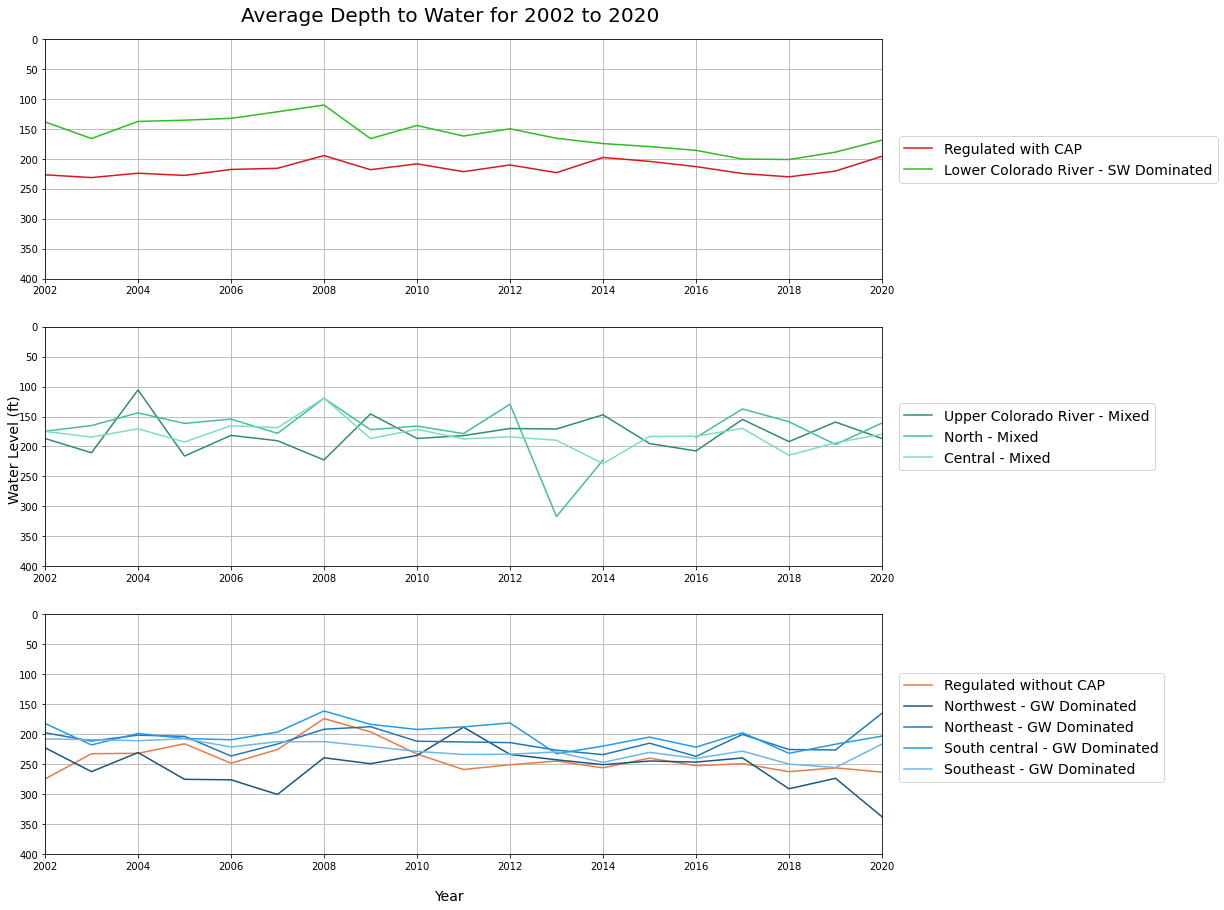
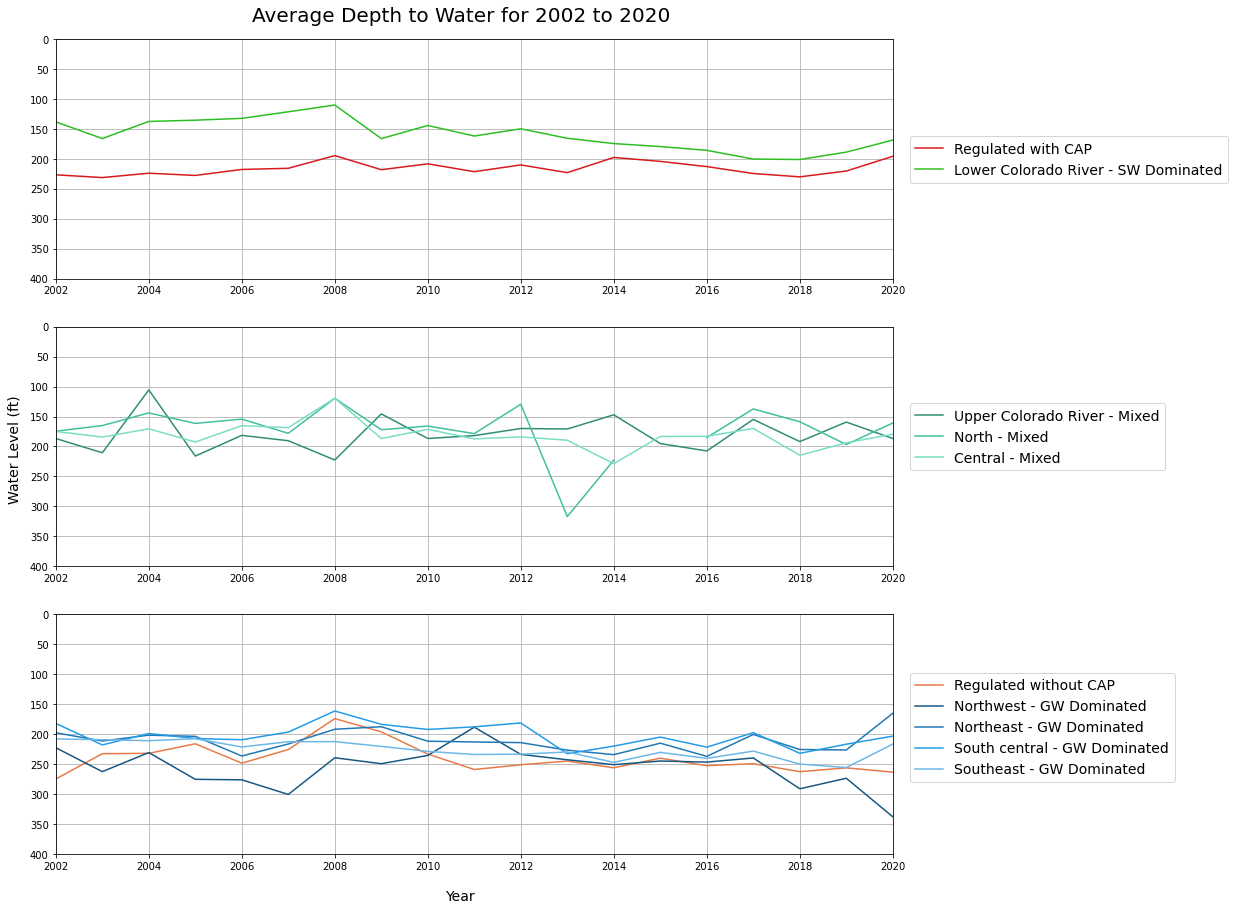
Actually working bar charts

diff --git a/SummaryCodes/Spatial_Analysis_Wells_FinalGeoreg.py b/SummaryCodes/Spatial_Analysis_Wells_FinalGeoreg.py
@@ -405,24 +405,25 @@ ax[1,1].axvspan(h, a, color=wet_color, alpha=0.5, lw=0)
 # plt.savefig(outputpath+name+'_4panel_drought')
 
 
-# %% Plot in a three panel graph
+# %% Plot in a four panel 1 column graph
 ds = cat_wl2
 minyear=2002
 maxyear=2020
 name = "Average Depth to Water for " + str(minyear) + " to " + str(maxyear)
 min_y = 0
-max_y = 400
+max_y = 350
 fsize = 14
 ylabel = "Water Level (ft)"
+linewidth = 2
 
 # del ds.at[2015, 10]
 ds.at[2015, 10] = None
 
 # For the actual figure
-fig, ax = plt.subplots(3,1,figsize=(15,15))
+fig, ax = plt.subplots(4,1,figsize=(12,15))
 #fig.tight_layout()
 fig.suptitle(name, fontsize=20, y=0.91)
-fig.supylabel(ylabel, fontsize = 14, x=0.09)
+fig.supylabel(ylabel, fontsize = 14, x=0.05)
 fig.supxlabel("Year", fontsize = 14, y=0.08)
 # Panel numbers for easy adjusting
 p1 = 0 # Panel 1
@@ -430,16 +431,113 @@ p2 = 1 # Panel 2
 p3 = 2 # Panel 3
 p4 = 3 # Panel 4
 #ax[1,1].plot(ds['Reservation'], label='Reservation', color='#8d5a99')
-ax[p1].plot(ds[2], label='Regulated with CAP', color=c_2) 
-ax[p3].plot(ds[3], label='Regulated without CAP', color=c_3) 
-ax[p1].plot(ds[4], color=c_4, label='Lower Colorado River - SW Dominated')
-ax[p2].plot(ds[5], color=c_5, label='Upper Colorado River - Mixed')
-ax[p2].plot(ds[10], color=c_10, label='North - Mixed')
-ax[p2].plot(ds[11], color=c_11, label='Central - Mixed')
-ax[p3].plot(ds[7], color=c_7, label='Northwest - GW Dominated')
-ax[p3].plot(ds[9], color=c_9, label='Northeast - GW Dominated')
-ax[p3].plot(ds[8], color=c_8, label='South central - GW Dominated')
-ax[p3].plot(ds[6], color=c_6, label='Southeast - GW Dominated')
+ax[p1].plot(ds[2], label='Regulated with CAP', color=c_2, lw=linewidth) 
+ax[p3].plot(ds[3], label='Regulated without CAP', color=c_3, lw=linewidth) 
+ax[p1].plot(ds[4], color=c_4, label='Lower Colorado River - SW Dominated', lw=linewidth)
+ax[p2].plot(ds[5], color=c_5, label='Upper Colorado River - Mixed', lw=linewidth)
+#ax[p2].plot(ds[10], color=c_10, label='North - Mixed', lw=linewidth)
+ax[p2].plot(ds[11], color=c_11, label='Central - Mixed', lw=3)
+ax[p4].plot(ds[7], color=c_7, label='Northwest - GW Dominated', lw=linewidth)
+ax[p3].plot(ds[9], color=c_9, label='Northeast - GW Dominated', lw=linewidth)
+ax[p4].plot(ds[8], color=c_8, label='South central - GW Dominated', lw=linewidth)
+ax[p3].plot(ds[6], color=c_6, label='Southeast - GW Dominated', lw=3)
+
+ax[p1].set_xlim(minyear,maxyear)
+ax[p2].set_xlim(minyear,maxyear)
+ax[p3].set_xlim(minyear,maxyear)
+ax[p4].set_xlim(minyear,maxyear)
+ax[p1].set_ylim(max_y,min_y)
+ax[p2].set_ylim(max_y,min_y)
+ax[p3].set_ylim(max_y,min_y)
+ax[p4].set_ylim(max_y,min_y)
+ax[p1].grid(True)
+ax[p2].grid(True)
+ax[p3].grid(True)
+ax[p4].grid(True)
+#ax[0,0].set(title=name, xlabel='Year', ylabel='Change from Baseline (cm)')
+#ax[0,0].set_title(name, loc='right')
+#ax[1,0].set_ylabel("Change from 2004-2009 Baseline (cm)", loc='top', fontsize = fsize)
+
+# Drought Year Shading
+a = 2011
+b = 2015.999
+c = 2018.001
+d = 2018.999
+e = 2006
+f = 2007.999
+
+ax[p1].axvspan(a, b, color=drought_color, alpha=0.5, lw=0, label="Drought")
+ax[p1].axvspan(c, d, color=drought_color, alpha=0.5, lw=0)
+ax[p1].axvspan(e, f, color=drought_color, alpha=0.5, lw=0)
+ax[p2].axvspan(a, b, color=drought_color, alpha=0.5, lw=0, label="Drought")
+ax[p2].axvspan(c, d, color=drought_color, alpha=0.5, lw=0)
+ax[p2].axvspan(e, f, color=drought_color, alpha=0.5, lw=0)
+ax[p3].axvspan(a, b, color=drought_color, alpha=0.5, lw=0, label="Drought")
+ax[p3].axvspan(c, d, color=drought_color, alpha=0.5, lw=0)
+ax[p3].axvspan(e, f, color=drought_color, alpha=0.5, lw=0)
+ax[p4].axvspan(a, b, color=drought_color, alpha=0.5, lw=0, label="Drought")
+ax[p4].axvspan(c, d, color=drought_color, alpha=0.5, lw=0)
+ax[p4].axvspan(e, f, color=drought_color, alpha=0.5, lw=0)
+
+# Wet years (2005 and 2010)
+g = 2005
+h = 2010
+ax[p1].axvspan(g, e, color=wet_color, alpha=0.5, lw=0, label="Wet Years")
+ax[p1].axvspan(h, a, color=wet_color, alpha=0.5, lw=0)
+ax[p2].axvspan(g, e, color=wet_color, alpha=0.5, lw=0, label="Wet Years")
+ax[p2].axvspan(h, a, color=wet_color, alpha=0.5, lw=0)
+ax[p3].axvspan(g, e, color=wet_color, alpha=0.5, lw=0, label="Wet Years")
+ax[p3].axvspan(h, a, color=wet_color, alpha=0.5, lw=0)
+ax[p4].axvspan(g, e, color=wet_color, alpha=0.5, lw=0, label="Wet Years")
+ax[p4].axvspan(h, a, color=wet_color, alpha=0.5, lw=0)
+
+ax[p1].legend(loc = [1.02, 0.40], fontsize = fsize)
+ax[p2].legend(loc = [1.02, 0.40], fontsize = fsize)
+ax[p3].legend(loc = [1.02, 0.30], fontsize = fsize)
+ax[p4].legend(loc = [1.02, 0.20], fontsize = fsize)
+
+# plt.savefig(outputpath+name+'_3panel', bbox_inches = 'tight') # bbox_inches makes sure the legend saves
+# plt.savefig(outputpath+name+'_4panel', bbox_inches = 'tight') # bbox_inches makes sure the legend saves
+plt.savefig(outputpath+name+'_4panel_drought', bbox_inches = 'tight') # bbox_inches makes sure the legend saves
+
+# plt.savefig(outputpath+name+'_3panel_drought')
+
+# %% Plot in a three panel graph, 1 column
+ds = cat_wl2
+minyear=1971
+maxyear=2020
+name = "Average Depth to Water for " + str(minyear) + " to " + str(maxyear)
+min_y = 0
+max_y = 350
+fsize = 14
+ylabel = "Water Level (ft)"
+linewidth = 2
+
+# del ds.at[2015, 10]
+ds.at[2015, 10] = None
+
+# For the actual figure
+fig, ax = plt.subplots(3,1,figsize=(12,15))
+#fig.tight_layout()
+fig.suptitle(name, fontsize=20, y=0.91)
+fig.supylabel(ylabel, fontsize = 14, x=0.05)
+fig.supxlabel("Year", fontsize = 14, y=0.08)
+# Panel numbers for easy adjusting
+p1 = 0 # Panel 1
+p2 = 1 # Panel 2
+p3 = 2 # Panel 3
+p4 = 3 # Panel 4
+#ax[1,1].plot(ds['Reservation'], label='Reservation', color='#8d5a99')
+ax[p1].plot(ds[2], label='Regulated with CAP', color=c_2, lw=linewidth) 
+ax[p3].plot(ds[3], label='Regulated without CAP', color=c_3, lw=linewidth) 
+ax[p1].plot(ds[4], color=c_4, label='Lower Colorado River - SW Dominated', lw=linewidth)
+ax[p2].plot(ds[5], color=c_5, label='Upper Colorado River - Mixed', lw=linewidth)
+#ax[p2].plot(ds[10], color=c_10, label='North - Mixed', lw=linewidth)
+ax[p2].plot(ds[11], color=c_11, label='Central - Mixed', lw=linewidth)
+ax[p3].plot(ds[7], color=c_7, label='Northwest - GW Dominated', lw=linewidth)
+ax[p3].plot(ds[9], color=c_9, label='Northeast - GW Dominated', lw=linewidth)
+ax[p3].plot(ds[8], color=c_8, label='South central - GW Dominated', lw=linewidth)
+ax[p3].plot(ds[6], color=c_6, label='Southeast - GW Dominated', lw=linewidth)
 
 ax[p1].set_xlim(minyear,maxyear)
 ax[p2].set_xlim(minyear,maxyear)
@@ -465,37 +563,39 @@ ax[p3].grid(True)
 # e = 2006
 # f = 2007.999
 
-# ax[0,0].axvspan(a, b, color=drought_color, alpha=0.5, lw=0, label="Drought")
-# ax[0,0].axvspan(c, d, color=drought_color, alpha=0.5, lw=0)
-# ax[0,0].axvspan(e, f, color=drought_color, alpha=0.5, lw=0)
-# ax[1,0].axvspan(a, b, color=drought_color, alpha=0.5, lw=0, label="Drought")
-# ax[1,0].axvspan(c, d, color=drought_color, alpha=0.5, lw=0)
-# ax[1,0].axvspan(e, f, color=drought_color, alpha=0.5, lw=0)
-# ax[0,1].axvspan(a, b, color=drought_color, alpha=0.5, lw=0, label="Drought")
-# ax[0,1].axvspan(c, d, color=drought_color, alpha=0.5, lw=0)
-# ax[0,1].axvspan(e, f, color=drought_color, alpha=0.5, lw=0)
-# ax[1,1].axvspan(a, b, color=drought_color, alpha=0.5, lw=0, label="Drought")
-# ax[1,1].axvspan(c, d, color=drought_color, alpha=0.5, lw=0)
-# ax[1,1].axvspan(e, f, color=drought_color, alpha=0.5, lw=0)
+# ax[p1].axvspan(a, b, color=drought_color, alpha=0.5, lw=0, label="Drought")
+# ax[p1].axvspan(c, d, color=drought_color, alpha=0.5, lw=0)
+# ax[p1].axvspan(e, f, color=drought_color, alpha=0.5, lw=0)
+# ax[p2].axvspan(a, b, color=drought_color, alpha=0.5, lw=0, label="Drought")
+# ax[p2].axvspan(c, d, color=drought_color, alpha=0.5, lw=0)
+# ax[p2].axvspan(e, f, color=drought_color, alpha=0.5, lw=0)
+# ax[p3].axvspan(a, b, color=drought_color, alpha=0.5, lw=0, label="Drought")
+# ax[p3].axvspan(c, d, color=drought_color, alpha=0.5, lw=0)
+# ax[p3].axvspan(e, f, color=drought_color, alpha=0.5, lw=0)
+# # ax[p4].axvspan(a, b, color=drought_color, alpha=0.5, lw=0, label="Drought")
+# # ax[p4].axvspan(c, d, color=drought_color, alpha=0.5, lw=0)
+# # ax[p4].axvspan(e, f, color=drought_color, alpha=0.5, lw=0)
 
 # # Wet years (2005 and 2010)
 # g = 2005
 # h = 2010
-# ax[0,0].axvspan(g, e, color=wet_color, alpha=0.5, lw=0, label="Wet Years")
-# ax[0,0].axvspan(h, a, color=wet_color, alpha=0.5, lw=0)
-# ax[0,1].axvspan(g, e, color=wet_color, alpha=0.5, lw=0, label="Wet Years")
-# ax[0,1].axvspan(h, a, color=wet_color, alpha=0.5, lw=0)
-# ax[1,0].axvspan(g, e, color=wet_color, alpha=0.5, lw=0, label="Wet Years")
-# ax[1,0].axvspan(h, a, color=wet_color, alpha=0.5, lw=0)
-# ax[1,1].axvspan(g, e, color=wet_color, alpha=0.5, lw=0, label="Wet Years")
-# ax[1,1].axvspan(h, a, color=wet_color, alpha=0.5, lw=0)
+# ax[p1].axvspan(g, e, color=wet_color, alpha=0.5, lw=0, label="Wet Years")
+# ax[p1].axvspan(h, a, color=wet_color, alpha=0.5, lw=0)
+# ax[p2].axvspan(g, e, color=wet_color, alpha=0.5, lw=0, label="Wet Years")
+# ax[p2].axvspan(h, a, color=wet_color, alpha=0.5, lw=0)
+# ax[p3].axvspan(g, e, color=wet_color, alpha=0.5, lw=0, label="Wet Years")
+# ax[p3].axvspan(h, a, color=wet_color, alpha=0.5, lw=0)
+# # ax[p4].axvspan(g, e, color=wet_color, alpha=0.5, lw=0, label="Wet Years")
+# # ax[p4].axvspan(h, a, color=wet_color, alpha=0.5, lw=0)
 
 ax[p1].legend(loc = [1.02, 0.40], fontsize = fsize)
 ax[p2].legend(loc = [1.02, 0.40], fontsize = fsize)
 ax[p3].legend(loc = [1.02, 0.30], fontsize = fsize)
-# ax[p4].legend(loc = [0.1, 0.20], fontsize = fsize)
+# ax[p4].legend(loc = [1.02, 0.20], fontsize = fsize)
 
 plt.savefig(outputpath+name+'_3panel', bbox_inches = 'tight') # bbox_inches makes sure the legend saves
+# plt.savefig(outputpath+name+'_4panel', bbox_inches = 'tight') # bbox_inches makes sure the legend saves
+
 # plt.savefig(outputpath+name+'_3panel_drought')
 # %% --- Now making graphs for other things
 # - Well Density (cumulative number of wells) over time
@@ -785,6 +885,7 @@ plt.savefig(outputpath+name)
 # Calculating well densities
 new_wells2 = pd.read_csv('../MergedData/Output_files/Final_NewWells.csv',
                         header=1, index_col=0)
+new_wells2
 new_wells2 = new_wells2.reset_index()
 new_wells2 = new_wells2.iloc[1:, :]
 #new_wells2 = new_wells2.rename(columns = {'GEOREGI_NU':'Year'})
@@ -817,33 +918,21 @@ georeg_area
 # %%
 new_wells2 = new_wells.reset_index()
 new_wells2
-# %% df1.div(df2.iloc[0], axis='columns') - This only returns nan
-well_densities = new_wells2.div(georeg_area.iloc[0])
-well_densities
 
 # %% df1/df2.values[0,:]
 well_densities = new_wells2/georeg_area.values[0,:]
 well_densities
 
 # %%
-well_densities['1'].plot()
+well_densities['3'].plot()
 
 # %%
 well_densities.info()
 
 # %%
 well_densities1 = well_densities.reset_index()
-well_densities1.info()
-
-# %%
 well_densities1['GEOREGI_NU'] = pd.to_numeric(well_densities1['GEOREGI_NU'])
-well_densities1.info()
-
-# %%
 well_densities1['GEOREGI_NU'] = well_densities1['GEOREGI_NU'].astype(int)
-well_densities1.info()
-
-# %%
 well_densities1.set_index('GEOREGI_NU', inplace=True)
 well_densities1.info()
 
@@ -899,16 +988,60 @@ ax[2].legend(loc = [1.05, 0.3], fontsize = fsize)
 
 plt.savefig(outputpath+name+"fixed_axes")
 
-# %% Trying to plot other charts - below here is mostly garbage
+# %% Trying to different types of charts
+# Labels for reference and different color orders
 georeg = georeg.sort_values(by=['GEOREGI_NU'])
 labels = dict(zip(georeg.GEOREGI_NU, georeg.GEO_Region))
-labels
+# del labels[1]
+print(labels)
 
-barcolors = [c_1, c_2, c_3, c_4, c_5, c_6, c_7, c_8, c_9, c_10, c_11]
-# %% Kinda worked!  Ned to figure out how to specify things a little more
+barcolors = [c_2, c_3, c_4, c_5, c_10, c_11, c_7, c_9, c_8, c_6]
+barhcolors = [c_6, c_8, c_9, c_7, c_3, c_11, c_10, c_5, c_4, c_2]
+
+# %% Normal Bar Chart
 ds = well_densities1
-plt.figure(figsize = (9,6))
-plt.bar(ds.columns, ds.sum(), color = barcolors)
+ds1 = pd.DataFrame()
+ds1['Reg. with CAP'] = ds['2']
+ds1['Reg. without CAP'] = ds['3']
+ds1['Lower CO River'] = ds['4']
+ds1['Upper CO River'] = ds['5']
+ds1['North'] = ds['10']
+ds1['Central'] = ds['11']
+ds1['Northwest'] = ds['7']
+ds1['Northeast'] = ds['9']
+ds1['South-central'] = ds['8']
+ds1['Southeast'] = ds['6']
+
+plt.figure(figsize = (10,6))
+plt.title('Well Densities Per Region')
+plt.bar(ds1.columns, ds1.sum(), color = barcolors, zorder=4)
+plt.ylabel('Number of Wells / km^2')
+plt.xticks(rotation=30)
+plt.grid(axis='y', linewidth=0.5, zorder=0)
+
+# %% Horizontal Bar Chart
+ds = well_densities1
+ds1 = pd.DataFrame()
+ds1['Southeast'] = ds['6']
+ds1['South-central'] = ds['8']
+ds1['Northeast'] = ds['9']
+ds1['Northwest'] = ds['7']
+ds1['Reg. without CAP'] = ds['3']
+ds1['Central'] = ds['11']
+ds1['North'] = ds['10']
+ds1['Upper Colorado River'] = ds['5']
+ds1['Lower Colorado River'] = ds['4']
+ds1['Regulated with CAP'] = ds['2']
+
+plt.figure(figsize = (10,6))
+plt.title('Well Densities Per Region')
+plt.barh(ds1.columns, ds1.sum(), color = barhcolors, zorder=4)
+plt.xlabel('Number of Wells / km^2')
+plt.xticks()
+plt.grid(axis='x', linewidth=0.5, zorder=0)
+# %%
+ds = well_densities1
+plt.figure(figsize)
 
 # %% fail
 ds = new_wells
